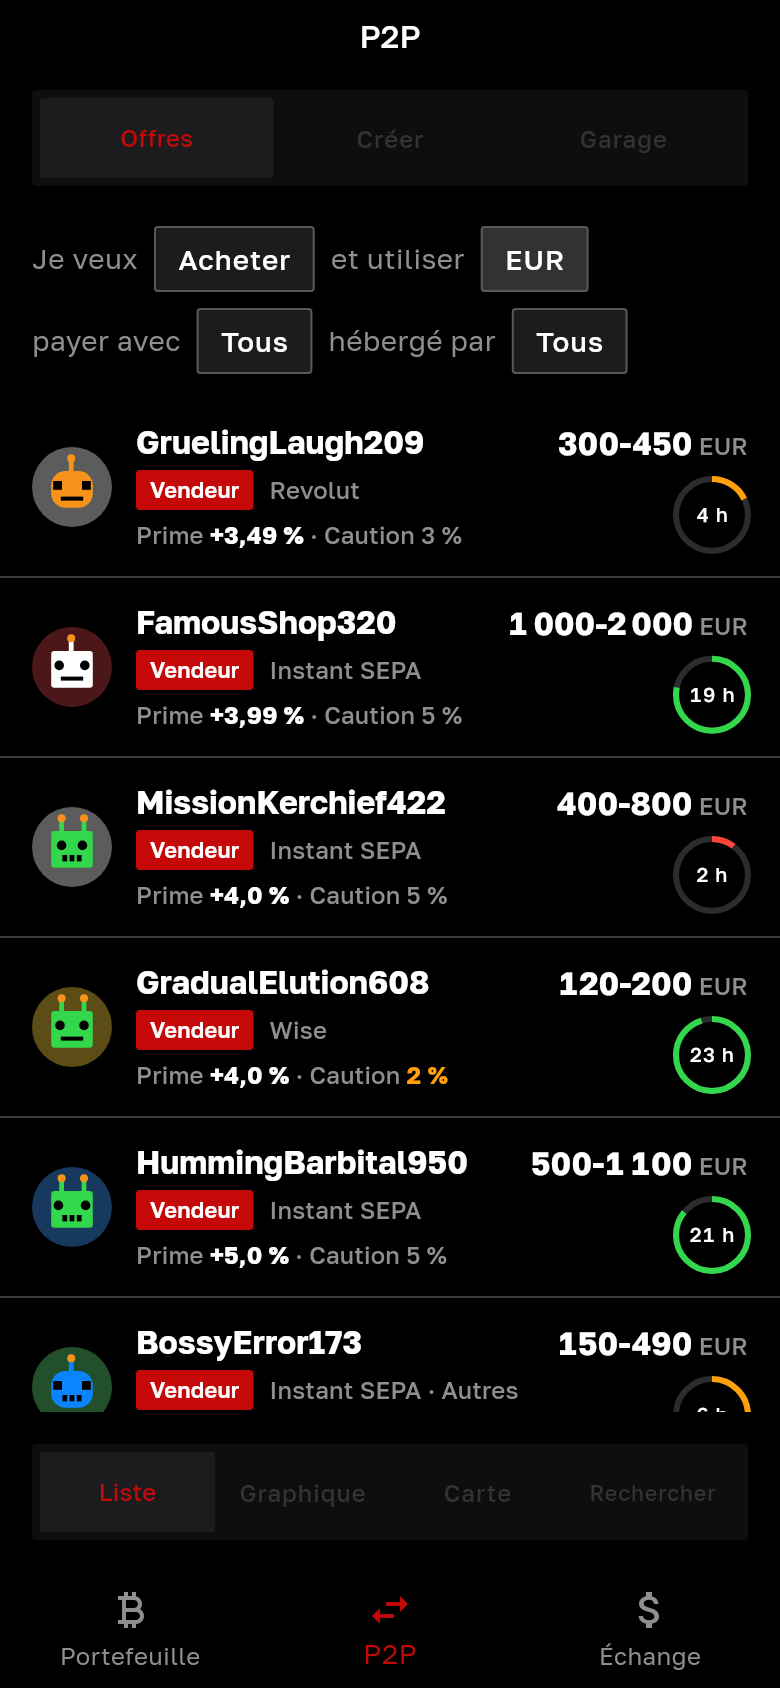
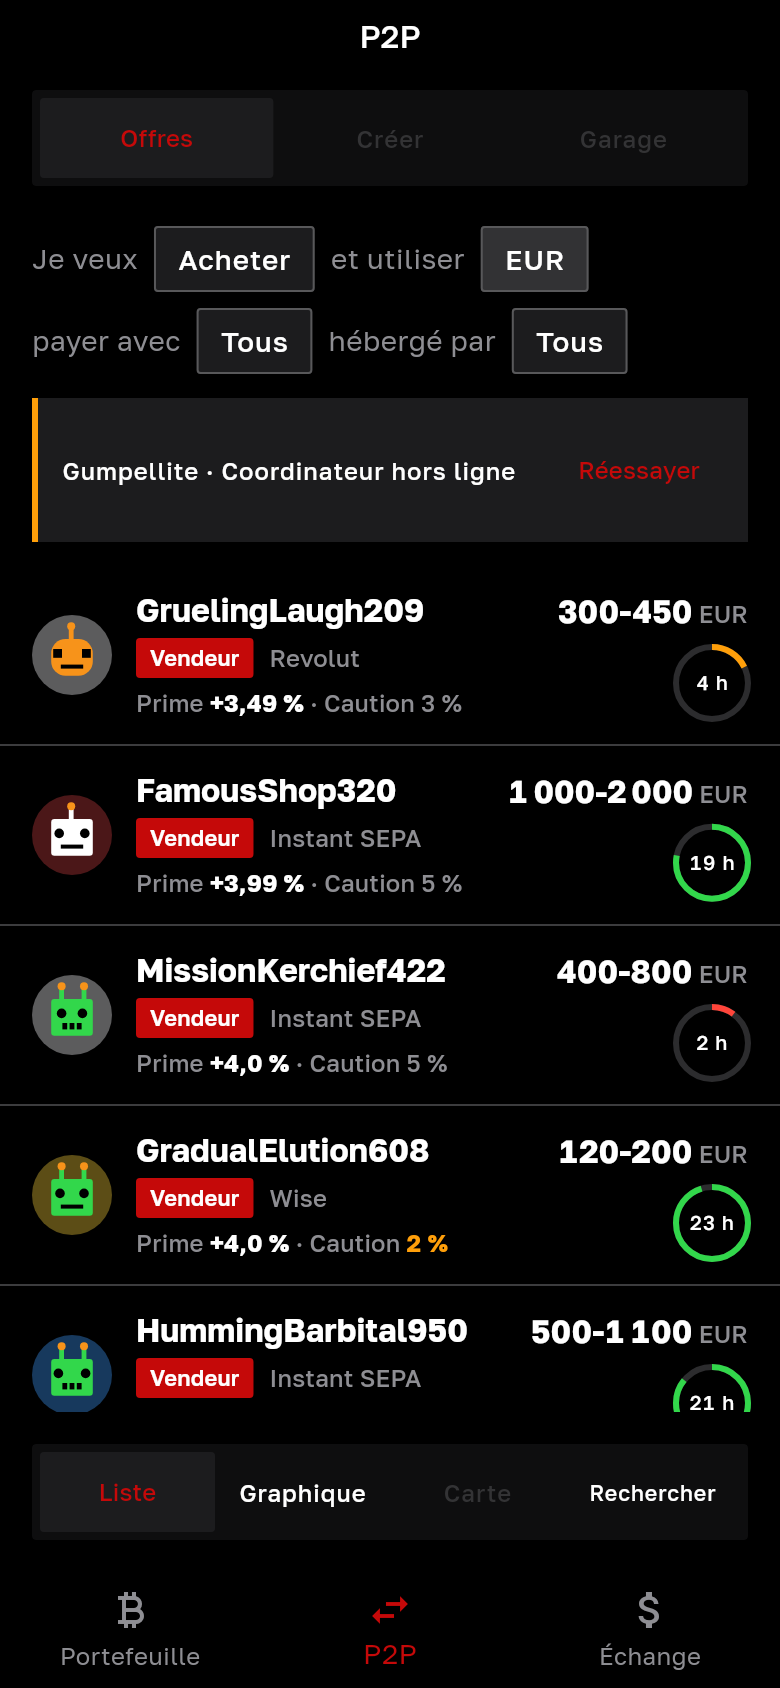
docs: update the README with the Garage and the second phone trial (#61)
README brought up to date with main: the coordinator details, order search, depth chart and the Garage screens, with 14 new real screenshots (English and French) rendered by the capture test; the second phone trial as the tester reported it; what the Garage does and does not protect, as the code and the records say.

Documentation and images only. Independent review: can be merged, after eleven wording fixes.

Part of #29 and #30.

diff --git a/README.md b/README.md
@@ -22,7 +22,7 @@ These are goals: the "Project status" section says what actually exists.
 
 ## Preview (mock-up)
 
-> These screens are a **mock-up**: they show the target, not the current app. Offers, amounts, nicknames and messages are made up. Only the first screens exist in the app so far: see [First screens in the app](#first-screens-in-the-app) below.
+> These screens are a **mock-up**: they show the target, not the current app. Offers, amounts, nicknames and messages are made up. Only the first screens exist in the app so far: see [Screens in the app](#screens-in-the-app) below.
 
 <table>
   <tr>
@@ -69,34 +69,64 @@ A few notes on what the mock-up shows:
 
 </details>
 
-## First screens in the app
+## Screens in the app
 
-> These are **real screens**, rendered from the app's own code by a test, with order books recorded from the RoboSats coordinators. They are read-only and only visible when both superuser mode and developer mode are on. They were tried on one Android phone, with a debug build (see the status below).
+> These are **real screens**, rendered from the app's own code by a test: the order book screens with books recorded from the RoboSats coordinators on November 10, 2026 (Gumpellite, added to the app's coordinator list after that recording, shows as offline), and the Garage, on testnet, with the public example Garage Key of the RoboSats tests (the backup alert shows a throwaway key drawn by the test, kept hidden). They are only visible when both superuser mode and developer mode are on. The order book screens were tried on a phone with a debug build; the Garage screens have not been tried on a phone yet (see the status below).
 
 <table>
   <tr>
     <td align="center"><img src="docs/screenshots/en-tor-wait.png" width="170" alt="App screen: connecting to the Tor network"><br><sub>Connecting to Tor</sub></td>
     <td align="center"><img src="docs/screenshots/en-order-book.png" width="170" alt="App screen: order book filtered on buying with EUR"><br><sub>The order book</sub></td>
+    <td align="center"><img src="docs/screenshots/en-depth-chart.png" width="170" alt="App screen: depth chart of the EUR orders on the premium axis, with one order shown under the finger"><br><sub>The depth chart</sub></td>
+    <td align="center"><img src="docs/screenshots/en-search-order.png" width="170" alt="App screen: Search order dialog asking for an order URL"><br><sub>Search order</sub></td>
+  </tr>
+  <tr>
     <td align="center"><img src="docs/screenshots/en-order.png" width="170" alt="App screen: details of an order, with the Take Order button disabled"><br><sub>Order details</sub></td>
     <td align="center"><img src="docs/screenshots/en-reversible-payments.png" width="170" alt="App screen: warning about reversible payment methods"><br><sub>Reversible payments warning</sub></td>
+    <td align="center"><img src="docs/screenshots/en-coordinator-details.png" width="170" alt="App screen: details of the coordinator that hosts the order"><br><sub>Coordinator details</sub></td>
   </tr>
 </table>
 
-What these screens do today: wait for Tor inside the tab, load the order book coordinator by coordinator, filter it (buy or sell, currency, payment method, host), show RoboSats' low-bond and reversible-payment warnings, and show the details of an order. "Take Order" is displayed but disabled. The robot avatars are provisional ([#22](https://github.com/Skyman21m/troc/issues/22)).
+What these screens do today, read-only: wait for Tor inside the tab, load the order book coordinator by coordinator, filter it (buy or sell, currency, payment method, host), draw its depth chart (premium or price axis, zoom; a long press shows an order, a tap opens it), show RoboSats' low-bond and reversible-payment warnings, the details of an order and of the coordinator that hosts it, and open an order of the public book from its URL ("Search order"; an order that is not in the public book needs a robot, which the app cannot use yet). "Take Order" is displayed but disabled. A coordinator's links and contacts are shown, never opened, so nothing leaves Tor. The robot avatars are provisional ([#22](https://github.com/Skyman21m/troc/issues/22)).
+
+<table>
+  <tr>
+    <td align="center"><img src="docs/screenshots/en-garage-welcome.png" width="170" alt="App screen: Garage welcome, with Start and Recovery"><br><sub>The Garage</sub></td>
+    <td align="center"><img src="docs/screenshots/en-garage-backup-alert.png" width="170" alt="App screen: step 1 of the Garage, the backup alert with the Garage Key hidden"><br><sub>Back up the Garage Key</sub></td>
+    <td align="center"><img src="docs/screenshots/en-garage-robot.png" width="170" alt="App screen: step 2 of the Garage, the first robot with its avatar and nickname"><br><sub>The first robot</sub></td>
+    <td align="center"><img src="docs/screenshots/en-garage-profile.png" width="170" alt="App screen: Garage profile, the robot navigator and the Garage Key hidden"><br><sub>Profile, key hidden</sub></td>
+  </tr>
+</table>
+
+The Garage (RoboSats' name for the screen that holds the Garage Key and its robots) works on the device only. With no key stored, it generates a Garage Key or takes a pasted one, shows it for backup with RoboSats' alert, and shows the first robot derived from it; from the welcome screen, "Recovery" stores a pasted key. With a key stored, the user can browse the robots, show the key again behind the wallet's PIN (when one is set), and delete the key. The key is kept, one per network, in the wallet's secure storage on the device (`packages/secrets`, which also holds the seeds), never in a wallet backup: the user backs it up separately. The whole Garage asks for the wallet's screen-capture protection, as the seed screens do (on unless the user turned "Screen Privacy" off in the wallet's settings; not yet checked on a phone). Nothing is sent to a coordinator yet, and each visit starts again at robot 0.
 
 <details>
 <summary>Captures en français</summary>
 
 <br>
 
-*Écrans réels, rendus par le code de l'application dans un test, avec des carnets d'ordres enregistrés. Lecture seule, visibles uniquement en mode super-utilisateur et développeur.*
+*Écrans réels, rendus par le code de l'application dans un test : les écrans du carnet d'ordres (lecture seule) avec des carnets enregistrés le 10 novembre 2026 (Gumpellite, ajouté à la liste des coordinateurs de l'application après cet enregistrement, apparaît hors ligne) ; le Garage, sur testnet, avec la clé de garage d'exemple, publique, des tests de RoboSats (l'alerte de sauvegarde montre une clé jetable tirée par le test, masquée). Visibles uniquement en mode super-utilisateur et développeur. Les écrans du carnet ont été essayés sur un téléphone avec une version de débogage ; le Garage ne l'a pas encore été.*
 
 <table>
   <tr>
     <td align="center"><img src="docs/screenshots/fr-tor-wait.png" width="170" alt="Écran de l'application : connexion au réseau Tor"><br><sub>Connexion à Tor</sub></td>
     <td align="center"><img src="docs/screenshots/fr-order-book.png" width="170" alt="Écran de l'application : carnet d'ordres filtré sur l'achat en EUR"><br><sub>Le carnet d'ordres</sub></td>
+    <td align="center"><img src="docs/screenshots/fr-depth-chart.png" width="170" alt="Écran de l'application : graphique de profondeur des ordres en EUR sur l'axe de la prime, un ordre affiché sous le doigt"><br><sub>Le graphique de profondeur</sub></td>
+    <td align="center"><img src="docs/screenshots/fr-search-order.png" width="170" alt="Écran de l'application : fenêtre « Rechercher un ordre » qui demande l'URL d'un ordre"><br><sub>Rechercher un ordre</sub></td>
+  </tr>
+  <tr>
     <td align="center"><img src="docs/screenshots/fr-order.png" width="170" alt="Écran de l'application : fiche d'un ordre, bouton « Prendre l'ordre » inactif"><br><sub>La fiche d'un ordre</sub></td>
     <td align="center"><img src="docs/screenshots/fr-reversible-payments.png" width="170" alt="Écran de l'application : avertissement sur les paiements réversibles"><br><sub>Avertissement « Paiements réversibles »</sub></td>
+    <td align="center"><img src="docs/screenshots/fr-coordinator-details.png" width="170" alt="Écran de l'application : fiche du coordinateur qui héberge l'ordre"><br><sub>La fiche du coordinateur</sub></td>
+  </tr>
+</table>
+
+<table>
+  <tr>
+    <td align="center"><img src="docs/screenshots/fr-garage-welcome.png" width="170" alt="Écran de l'application : accueil du Garage, avec « Commencer » et « Récupération »"><br><sub>Le Garage</sub></td>
+    <td align="center"><img src="docs/screenshots/fr-garage-backup-alert.png" width="170" alt="Écran de l'application : étape 1 du Garage, l'alerte de sauvegarde, clé de garage masquée"><br><sub>Sauvegarder la clé de garage</sub></td>
+    <td align="center"><img src="docs/screenshots/fr-garage-robot.png" width="170" alt="Écran de l'application : étape 2 du Garage, le premier robot avec son avatar et son pseudo"><br><sub>Le premier robot</sub></td>
+    <td align="center"><img src="docs/screenshots/fr-garage-profile.png" width="170" alt="Écran de l'application : profil du Garage, navigation entre robots et clé de garage masquée"><br><sub>Le profil, clé masquée</sub></td>
   </tr>
 </table>
 
@@ -104,7 +134,7 @@ What these screens do today: wait for Tor inside the tab, load the order book co
 
 ## How a trade works
 
-The planned flow is the RoboSats one; none of this is usable in the app yet. Example for a buyer who takes an order:
+The planned flow is the RoboSats one; only the first three steps exist in the app so far (the robots on the device only), and no order can be taken yet. Example for a buyer who takes an order:
 
 1. **Tor.** The P2P tab connects to the Tor network; the wallet stays usable in the meantime.
 2. **Robot.** The app creates a Garage Key, a master key from which it derives as many robots as needed. A robot is a disposable identity: a nickname, an avatar and its own keys.
@@ -116,7 +146,7 @@ The planned flow is the RoboSats one; none of this is usable in the app yet. Exa
 
 ## Project status
 
-Status as of November 11, 2026. The work is split into phases, tracked with [milestones](https://github.com/Skyman21m/troc/milestones) and [issues](https://github.com/Skyman21m/troc/issues).
+Status as of November 12, 2026. The work is split into phases, tracked with [milestones](https://github.com/Skyman21m/troc/milestones) and [issues](https://github.com/Skyman21m/troc/issues).
 
 | Phase | Scope | Status |
 |---|---|---|
@@ -133,31 +163,35 @@ What already exists in the code:
 - **Robot OpenPGP keys and messages**: robot key, signatures, chat encryption, checked both ways with GnuPG and OpenPGP.js; a testnet coordinator has accepted key pairs made by this code when creating a robot, but no signature or chat message has been tried against one yet ([report](docs/spikes/pgp.md)). This layer is written in Dart and is provisional: a proven Rust library must replace it before any release ([#25](https://github.com/Skyman21m/troc/issues/25)).
 - **Reading the coordinators**: info, order book and limits of each coordinator in the federation, with a check of its identity and of everything it returns ([details](packages/robosats/README.md)).
 - **A first contact over Tor**: a test reaches the real coordinators through the wallet's embedded Tor, on a PC ([measurements](docs/spikes/tor-robosats.md)).
-- **Reading the coordinators over the wallet's Tor**: the `features/p2p` module plugs this reading into the wallet's embedded Tor ([#27](https://github.com/Skyman21m/troc/issues/27)). Its own live test ran once, on a desktop PC behind a VPN, before the review fixes ([report](docs/spikes/tor-transport.md)); the robot test and the phone trial below have since gone through the corrected transport live, without targeting the fixed paths.
-- **The first screens of the P2P tab**: Tor wait, order book and its depth chart, order details, the details of a coordinator and the search of an order by its URL, read-only, behind superuser and developer mode ([#29](https://github.com/Skyman21m/troc/issues/29), [#30](https://github.com/Skyman21m/troc/issues/30)). Tested with recorded order books.
+- **Reading the coordinators over the wallet's Tor**: the `features/p2p` module plugs this reading into the wallet's embedded Tor ([#27](https://github.com/Skyman21m/troc/issues/27)). Its own live test ran once, on a desktop PC behind a VPN, before the review fixes ([report](docs/spikes/tor-transport.md)); the robot test and the phone trials below have since gone through the corrected transport live, without targeting the fixed paths.
+- **The order book screens of the P2P tab**: Tor wait, order book and its depth chart, order details, the details of a coordinator and the search of an order by its URL, read-only, behind superuser and developer mode ([#29](https://github.com/Skyman21m/troc/issues/29), [#30](https://github.com/Skyman21m/troc/issues/30)). Tested with recorded order books.
 - **A robot on a coordinator**: the code creates a robot on a coordinator and reads it back, over a Tor session of its own, and refuses any answer that is not the robot and the key pair of this device. A test did it six times on one testnet coordinator, from a desktop build ([report](docs/spikes/robot-coordinator.md)). No screen uses it yet ([#28](https://github.com/Skyman21m/troc/issues/28)).
-- **The Garage Key kept by the wallet's vault**: one per network (mainnet and testnet), random, never derived from the wallet's seed and never part of its backup; the P2P module can generate, import, find, delete it and derive its robots, only in the app in the foreground, and the custody checks limit which files may read it. No screen offers any of this yet ([#28](https://github.com/Skyman21m/troc/issues/28)).
+- **The Garage Key kept in the wallet's secure storage**: one per network (mainnet and testnet), random, never derived from the wallet's seed and never part of its backup; the P2P module can generate, import, find, delete it and derive its robots, only in the app in the foreground, and the custody checks limit which files may read it ([#28](https://github.com/Skyman21m/troc/issues/28)).
+- **The Garage screens**: generate or paste a Garage Key, back it up, meet the first robot, the profile with the key behind the wallet's PIN (when one is set), robot recovery from a pasted key, and deleting the key; on the device only, nothing is sent to a coordinator ([#29](https://github.com/Skyman21m/troc/issues/29)). The whole Garage asks for the wallet's screen-capture protection, as the seed screens do (on unless the user turned "Screen Privacy" off in the wallet's settings; not yet checked on a phone). Tested over an in-memory stand-in for the secure storage. Before any release, a copied key is to be flagged as sensitive to Android, and a key typed into the app is to be kept away from the system keyboard ([#56](https://github.com/Skyman21m/troc/issues/56)).
 - **A first trial on a phone** (November 11, 2026, one Android phone, debug build): the P2P tab appeared, Tor connected in about 30 seconds, the six coordinators of the mainnet list all ended up answering, some later than others, and the order book, its filters (which ones were tried was not recorded), pull to refresh, the order details and the reversible-payment warning worked. This is what the tester saw; nothing was measured. Not checked on the phone: the low-bond warning, the testnet banner, the Tor error and its retry, an offline coordinator, the English texts.
+- **A second trial on a phone** (later on November 11, 2026, debug build of `main` at `55ba5139c`): the tester reported that everything tried worked as expected, the coordinator details, the Search entry and the depth chart included; what exactly was tried on each screen was not recorded. That build came before the Garage screens, which have not been tried on a phone yet.
 
-In progress: the rest of the read-only screens (Garage, map view) ([#29](https://github.com/Skyman21m/troc/issues/29), [#30](https://github.com/Skyman21m/troc/issues/30)).
+In progress: binding each robot to a single coordinator before any request, since a robot's credential is the same on every coordinator ([#28](https://github.com/Skyman21m/troc/issues/28)), then contacting the coordinators from the Garage ([#29](https://github.com/Skyman21m/troc/issues/29)).
 
-Not done yet: the Garage screens that generate, show and import the key, and creating a robot from the app ([#28](https://github.com/Skyman21m/troc/issues/28)), taking or creating an order, the chat, and any operation that involves money.
+Next, once the bond decision is made ([#9](https://github.com/Skyman21m/troc/issues/9)): taking an order (phase 2, [#12](https://github.com/Skyman21m/troc/issues/12)).
+
+Not done yet: the map view of the order book ([#30](https://github.com/Skyman21m/troc/issues/30)), creating an order, the chat, and any operation that involves money.
 
 Android first. Nothing is released yet. At this stage, the app still shows Bull's name and logo in places: their removal is tracked in issue [#17](https://github.com/Skyman21m/troc/issues/17).
 
 ## How it is built
 
-Troc adds two modules to Bull's code; Troc touches the rest as little as possible, so that it can keep up with updates of the original wallet.
+Troc adds two modules to Bull's code; Troc touches the rest as little as possible, so that it can keep up with updates of the original wallet. Outside them, the main changes to Bull's own code are in `packages/secrets`, which now also keeps the Garage Keys apart from the seeds, under its custody checks ([#45](https://github.com/Skyman21m/troc/pull/45), [#58](https://github.com/Skyman21m/troc/pull/58)), and in the shell that mounts the P2P tab and hands it that storage (`lib/router.dart`, `lib/locator.dart`).
 
 | Module | Role |
 |---|---|
 | [`packages/robosats`](packages/robosats/README.md) | Part of the RoboSats protocol in pure Dart, with no screen and no network access of its own: robot identity, OpenPGP, reading the coordinators. It talks to the network through an entry point that the app provides. |
-| `features/p2p` | The app side: the transport over the wallet's Tor and its facade ([#27](https://github.com/Skyman21m/troc/issues/27)), and the first read-only screens of the P2P tab, shown only in superuser and developer mode; the Garage and the map view are not built yet ([#29](https://github.com/Skyman21m/troc/issues/29), [#30](https://github.com/Skyman21m/troc/issues/30)). |
+| `features/p2p` | The app side: the transport over the wallet's Tor and its facade ([#27](https://github.com/Skyman21m/troc/issues/27)), and the screens of the P2P tab, shown only in superuser and developer mode: the order book and its views, read-only ([#30](https://github.com/Skyman21m/troc/issues/30)), and the Garage, on the device only ([#29](https://github.com/Skyman21m/troc/issues/29)), whose Garage Key is kept in the wallet's secure storage (`packages/secrets`). The map view is not built yet. |
 
 Principles:
 
 - **Tor only.** RoboSats coordinators are only reached at their `.onion` address.
-- **Identities kept apart from the wallet.** Robot keys are disposable and are never derived from the wallet's recovery phrase. That phrase therefore does not restore them: the Garage Key needs its own backup.
+- **Identities kept apart from the wallet.** Robot keys are disposable and are never derived from the wallet's recovery phrase. The Garage Key is kept in the wallet's secure storage on the device, never in a wallet backup: neither the recovery phrase nor an Encrypted Vault backup restores it, so it needs its own backup.
 - **Received data is treated as untrusted.** Coordinator responses and the other party's messages are bounded in size and checked before use. As in RoboSats, the coordinator must still be trusted for the escrow, disputes and relaying the other party's key.
 
 The code has not been audited yet. An independent security audit is planned before any beta (phase 5).
